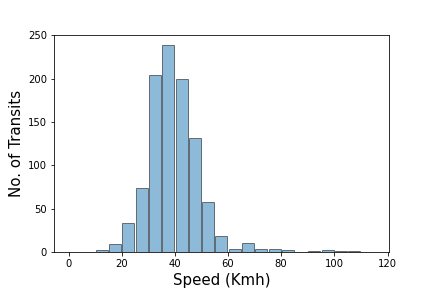
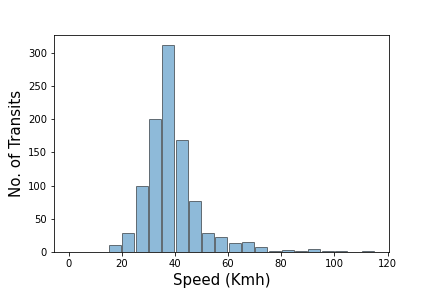
nahon update

diff --git a/Resources/Demos/Nahon/nahonRecentStats.html b/Resources/Demos/Nahon/nahonRecentStats.html
@@ -163,4 +163,4 @@
                     </tr>
 
                     <tr>
-                              <tr>                        <td>Bridge:              </td>                        <td>Nakhon Nayok, Thailand</td>                    </tr>                    <tr>                        <td>Test Period:         </td>                        <td>2020-11-29 to 2020-12-01</td>                    <tr>                        <td>Test Times:         </td>                        <td>09:02:20 to 15:23:22</td>                    </tr>                                     <tr>                        <td>Number of violations:</td>                        <td>71</td>                    </tr>                    <tr>                        <td>Number of transits:</td>                        <td>998</td>                    </tr>                 </table>             </div>            <div class='col-sm-4'></div>            <!-- Spacer-->        <div class='container-fluid'>            <div class='row'>                <div class='col-sm-2' style='background-color:white;'></div>                <div class='col-sm-8'>                      <img class='img-fluid' src='vCalendar.png' class='mx-auto d-block' />                    <br />                </div>                <div class='col-sm-2' style='background-color:white;'></div>            </div>        </div>             </div>            <div class='col-sm-2' style='background-color:white;'></div>        </div>    </div>        <!-- Spacer-->        <div class='container-fluid'>            <div class='row'>                <div class='col-sm-12'>                    .                    <br />                </div>            </div>        </div>         <!--Start a diagram +  table  (imageName)-->        <div class='container-fluid'>            <div class='row'>                <div class='col-sm-2' style='background-color:white;'></div>                 <div class='col-sm-4'>                    <img class='img-fluid' src='vWeightHisto.png'  height='300' class='mx-auto d-block' />                </div>                <div class='col-sm-4'>                    <table id='components2'>                        <tr>                            <th>Gross Vehicle Weight</th>                        </tr>                        <tr>                        <tr>                            <td>Mean weight (T):</td>                            <td>16.62 </td>                        </tr>                        <tr>                            <td>Mode weight (T):</td>                            <td>1.98</td>                        </tr>                        <tr>                            <td>Weight limit (T): </td>                            <td>50.0</td>                        </tr>                        <tr>                            <td>Number of violations:</td>                            <td>37</td>                        </tr>                        <tr>                            <td>Max violation (T):</td>                            <td>220.4</td>                        </tr>                    </table>                </div>                <div class='col-sm-2' style='background-color:white;'></div>            </div> <!-- End of Row-->        </div>      </div>      <!--Start a diagram +  table  (imageName)-->      <div class='container-fluid'>          <div class='row'>              <div class='col-sm-2' style='background-color:white;'></div>              <div class='col-sm-4'>                      <img class='img-fluid' src='vVelocity.png' class='mx-auto d-block' />              </div>              <div class='col-sm-4'>                  <table id='components2'>                          <tr>                              <th>Velocity</th>                                </tr>                          <tr>                          <tr>                              <td>Mean Speed (Km/h):</td>                              <td>39.74 </td>                          </tr>                          <tr>                              <td>Mode speed (Km/h):</td>                              <td>39.0</td>                          </tr>                          <tr>                              <td>Speed limit (Km/h):</td>                              <td>60.0</td>                          </tr>                          <tr>                              <td>Number of violations:</td>                              <td>29</td>                          </tr>                          <tr>                              <td>Max violation (Km/h):</td>                              <td>109.0</td>                          </tr>                            </table>                  </div>              </div>              <div class='col-sm-2' style='background-color:white;'>          </div>      </div>      <!--Start a diagram +  table  (imageName)-->      <div class='container-fluid'>          <div class='row'>              <div class='col-sm-2' style='background-color:white;'></div>              <div class='col-sm-4'>                  <img class='img-fluid' src='vLength.png'  height='300' class='mx-auto d-block'/>              </div>              <div class='col-sm-4'>                  <table id='components2'>                      <!--table heading -->                          <tr>                              <th>Vehicle Length (m):</th>                                </tr>                          <tr>                          <!--table entry -->                          <tr>                              <td>Mean Length (m):</td>                              <td>8.58</td>                          </tr>                          <!--table entry -->                          <tr>                              <td>Mode length (m):</td>                              <td>3.11</td>                          </tr>                             <!--table entry -->                         <tr>                             <td>Length limit (m): </td>                             <td>20.0</td>                         </tr>                            <!--table entry -->                                                 <tr>                             <td>Number of violations:</td>                             <td>5</td>                         </tr>                            <!--table entry -->                         <tr>                             <td>Max violation:</td>                             <td>72.75</td>                         </tr>                         <!--Close table -->                     </table>                 </div>             </div>             <div class='col-sm-2' style='background-color:white;'>         </div>     </div>      <!--Start a diagram +  table  (imageName)-->      <div class='container-fluid'>          <div class='row'>              <div class='col-sm-2' style='background-color:white;'></div>              <div class='col-sm-4'>                  <img class='img-fluid' src='vESAL.png'  height='300' class='mx-auto d-block'/>              </div>              <div class='col-sm-4'>                  <table id='components2'>                      <!--table heading -->                          <tr>                              <th>ESAL</th>                                </tr>                          <tr>                          <!--table entry -->                          <tr>                              <td>Mean ESAL:</td>                              <td>86.73</td>                          </tr>                          <!--table entry -->                          <tr>                              <td>Mode ESAL (m):</td>                              <td>2</td>                          </tr>                             <!--table entry -->                         <tr>                             <td>ESAL limit (m): </td>                             <td>0.7</td>                         </tr>                            <!--table entry -->                                                 <tr>                             <td>Number of violations:</td>                             <td>959</td>                         </tr>                            <!--table entry -->                         <tr>                             <td>Max violation:</td>                             <td>2000</td>                         </tr>                         <!--Close table -->                     </table>                 </div>             </div>             <div class='col-sm-2' style='background-color:white;'>         </div>     </div> <!--Draw a axle count graph-->     <div class='container-fluid'>         <div class='row'>             <div class='col-sm-2' style='background-color:white;'></div>             <div class='col-sm-8' style='background-color:white;'>                 <img class='img-fluid' src='vAxleCount.png' class='mx-auto d-block' />             </div>             <div class='col-sm-2' style='background-color:white;'>         </div>     </div>     <br>       <br>   </div>     <!--Draw a double graph-->     <div class='container-fluid'>         <div class='row'>                 <div class='col-sm-2' style='background-color:white;'></div>                 <div class='col-sm-8'>                     <img class='img-fluid' src='vWeekHisto.png' class='mx-auto d-block' />                     <img class='img-fluid' src='vDiurnalHisto.png' class='mx-auto d-block' />                 </div>                 <div class='col-sm-2' style='background-color:white;'></div>         </div>     </div> <div class='row'>     <div class='col-sm-2' style='background-color:white;'></div>         <div class='col-sm-8'>                 <table id='components'>                     <tr>                         <th>Summary</th>                     </tr>                     <tr>                     <tr>                         <td>Location</td>                         <td>Nakhon Nayok, Thailand </td>                     </tr>                    <tr>                         <td>Measurement period:</td>                         <td>2020-11-29 to 2020-12-01</td>                    <tr>                         <td>Measurement times:</td>                         <td>09:02:20 to 15:23:22</td>                     </tr>                     <tr>                         <td>Number of events: </td>                         <td>998</td>                     </tr>                     <tr>                         <td>Number of violations:</td>                         <td>71</td>                     </tr>                 </table>                 <br>             <table id='components'>               <tr>                   <th>By axle count</th>               </tr>               <tr>               <tr>                   <td>Axles </td>                   <td>Transits </td>                   <td>Mean Speed (Km/h)</td>                   <td>Mean Weight (T) </td>                   <td>ESAL </td>               </tr>               <tr>                 <td>2 </td>                 <td>332 </td>                 <td>39.07</td>                 <td>7.56 </td>                 <td>23.27 </td>             </tr>               <tr>                 <td>3 </td>                 <td>314 </td>                 <td>41.39</td>                 <td>13.23 </td>                 <td>50.65 </td>             </tr>               <tr>                 <td>4 </td>                 <td>77 </td>                 <td>38.68</td>                 <td>16.79 </td>                 <td>156.57 </td>             </tr>               <tr>                 <td>5 </td>                 <td>79 </td>                 <td>37.91</td>                 <td>21.48 </td>                 <td>115.47 </td>             </tr>               <tr>                 <td>6 </td>                 <td>109 </td>                 <td>39.08</td>                 <td>27.89 </td>                 <td>169.17 </td>             </tr>           </table>           <br>   </html>      <table id='components'>         <tr>             <th>Exceptions</th>         </tr>         <tr>         <tr>             <td>Class </td>             <td>Speed (km/h)</td>             <td>Weight (T) </td>             <td>ESAL </td>         </tr>         <tr>           <td>Limit </td>           <td>60.0</td>           <td>50.0 </td>           <td>0.7 </td>       </tr>       <tr>           <td>Violations </td>           <td>29 </td>           <td>37</td>           <td>959</td>       </tr>            </table>     <div class='col-sm-2' style='background-color:lavender;'></div>     <br> </html>
+                              <tr>                        <td>Bridge:              </td>                        <td>Nakhon Nayok, Thailand</td>                    </tr>                    <tr>                        <td>Test Period:         </td>                        <td>2021-01-11 to 2021-01-13</td>                    <tr>                        <td>Test Times:         </td>                        <td>12:39:26 to 02:27:45</td>                    </tr>                                     <tr>                        <td>Number of violations:</td>                        <td>136</td>                    </tr>                    <tr>                        <td>Number of transits:</td>                        <td>998</td>                    </tr>                 </table>             </div>            <div class='col-sm-4'></div>            <!-- Spacer-->        <div class='container-fluid'>            <div class='row'>                <div class='col-sm-2' style='background-color:white;'></div>                <div class='col-sm-8'>                      <img class='img-fluid' src='vCalendar.png' class='mx-auto d-block' />                    <br />                </div>                <div class='col-sm-2' style='background-color:white;'></div>            </div>        </div>             </div>            <div class='col-sm-2' style='background-color:white;'></div>        </div>    </div>        <!-- Spacer-->        <div class='container-fluid'>            <div class='row'>                <div class='col-sm-12'>                    .                    <br />                </div>            </div>        </div>         <!--Start a diagram +  table  (imageName)-->        <div class='container-fluid'>            <div class='row'>                <div class='col-sm-2' style='background-color:white;'></div>                 <div class='col-sm-4'>                    <img class='img-fluid' src='vWeightHisto.png'  height='300' class='mx-auto d-block' />                </div>                <div class='col-sm-4'>                    <table id='components2'>                        <tr>                            <th>Gross Vehicle Weight</th>                        </tr>                        <tr>                        <tr>                            <td>Mean weight (T):</td>                            <td>32.25 </td>                        </tr>                        <tr>                            <td>Mode weight (T):</td>                            <td>0.32</td>                        </tr>                        <tr>                            <td>Weight limit (T): </td>                            <td>50.0</td>                        </tr>                        <tr>                            <td>Number of violations:</td>                            <td>81</td>                        </tr>                        <tr>                            <td>Max violation (T):</td>                            <td>150.36</td>                        </tr>                    </table>                </div>                <div class='col-sm-2' style='background-color:white;'></div>            </div> <!-- End of Row-->        </div>      </div>      <!--Start a diagram +  table  (imageName)-->      <div class='container-fluid'>          <div class='row'>              <div class='col-sm-2' style='background-color:white;'></div>              <div class='col-sm-4'>                      <img class='img-fluid' src='vVelocity.png' class='mx-auto d-block' />              </div>              <div class='col-sm-4'>                  <table id='components2'>                          <tr>                              <th>Velocity</th>                                </tr>                          <tr>                          <tr>                              <td>Mean Speed (Km/h):</td>                              <td>39.26 </td>                          </tr>                          <tr>                              <td>Mode speed (Km/h):</td>                              <td>39.0</td>                          </tr>                          <tr>                              <td>Speed limit (Km/h):</td>                              <td>60.0</td>                          </tr>                          <tr>                              <td>Number of violations:</td>                              <td>51</td>                          </tr>                          <tr>                              <td>Max violation (Km/h):</td>                              <td>111.0</td>                          </tr>                            </table>                  </div>              </div>              <div class='col-sm-2' style='background-color:white;'>          </div>      </div>      <!--Start a diagram +  table  (imageName)-->      <div class='container-fluid'>          <div class='row'>              <div class='col-sm-2' style='background-color:white;'></div>              <div class='col-sm-4'>                  <img class='img-fluid' src='vLength.png'  height='300' class='mx-auto d-block'/>              </div>              <div class='col-sm-4'>                  <table id='components2'>                      <!--table heading -->                          <tr>                              <th>Vehicle Length (m):</th>                                </tr>                          <tr>                          <!--table entry -->                          <tr>                              <td>Mean Length (m):</td>                              <td>15.14</td>                          </tr>                          <!--table entry -->                          <tr>                              <td>Mode length (m):</td>                              <td>16.65</td>                          </tr>                             <!--table entry -->                         <tr>                             <td>Length limit (m): </td>                             <td>20.0</td>                         </tr>                            <!--table entry -->                                                 <tr>                             <td>Number of violations:</td>                             <td>4</td>                         </tr>                            <!--table entry -->                         <tr>                             <td>Max violation:</td>                             <td>64.86</td>                         </tr>                         <!--Close table -->                     </table>                 </div>             </div>             <div class='col-sm-2' style='background-color:white;'>         </div>     </div>      <!--Start a diagram +  table  (imageName)-->      <div class='container-fluid'>          <div class='row'>              <div class='col-sm-2' style='background-color:white;'></div>              <div class='col-sm-4'>                  <img class='img-fluid' src='vESAL.png'  height='300' class='mx-auto d-block'/>              </div>              <div class='col-sm-4'>                  <table id='components2'>                      <!--table heading -->                          <tr>                              <th>ESAL</th>                                </tr>                          <tr>                          <!--table entry -->                          <tr>                              <td>Mean ESAL:</td>                              <td>345.5</td>                          </tr>                          <!--table entry -->                          <tr>                              <td>Mode ESAL (m):</td>                              <td>2000</td>                          </tr>                             <!--table entry -->                         <tr>                             <td>ESAL limit (m): </td>                             <td>0.7</td>                         </tr>                            <!--table entry -->                                                 <tr>                             <td>Number of violations:</td>                             <td>989</td>                         </tr>                            <!--table entry -->                         <tr>                             <td>Max violation:</td>                             <td>2000</td>                         </tr>                         <!--Close table -->                     </table>                 </div>             </div>             <div class='col-sm-2' style='background-color:white;'>         </div>     </div> <!--Draw a axle count graph-->     <div class='container-fluid'>         <div class='row'>             <div class='col-sm-2' style='background-color:white;'></div>             <div class='col-sm-8' style='background-color:white;'>                 <img class='img-fluid' src='vAxleCount.png' class='mx-auto d-block' />             </div>             <div class='col-sm-2' style='background-color:white;'>         </div>     </div>     <br>       <br>   </div>     <!--Draw a double graph-->     <div class='container-fluid'>         <div class='row'>                 <div class='col-sm-2' style='background-color:white;'></div>                 <div class='col-sm-8'>                     <img class='img-fluid' src='vWeekHisto.png' class='mx-auto d-block' />                     <img class='img-fluid' src='vDiurnalHisto.png' class='mx-auto d-block' />                 </div>                 <div class='col-sm-2' style='background-color:white;'></div>         </div>     </div> <div class='row'>     <div class='col-sm-2' style='background-color:white;'></div>         <div class='col-sm-8'>                 <table id='components'>                     <tr>                         <th>Summary</th>                     </tr>                     <tr>                     <tr>                         <td>Location</td>                         <td>Nakhon Nayok, Thailand </td>                     </tr>                    <tr>                         <td>Measurement period:</td>                         <td>2021-01-11 to 2021-01-13</td>                    <tr>                         <td>Measurement times:</td>                         <td>12:39:26 to 02:27:45</td>                     </tr>                     <tr>                         <td>Number of events: </td>                         <td>998</td>                     </tr>                     <tr>                         <td>Number of violations:</td>                         <td>136</td>                     </tr>                 </table>                 <br>             <table id='components'>               <tr>                   <th>By axle count</th>               </tr>               <tr>               <tr>                   <td>Axles </td>                   <td>Transits </td>                   <td>Mean Speed (Km/h)</td>                   <td>Mean Weight (T) </td>                   <td>ESAL </td>               </tr>               <tr>                 <td>2 </td>                 <td>42 </td>                 <td>48.37</td>                 <td>9.4 </td>                 <td>109.81 </td>             </tr>               <tr>                 <td>3 </td>                 <td>157 </td>                 <td>41.96</td>                 <td>16.83 </td>                 <td>132.3 </td>             </tr>               <tr>                 <td>4 </td>                 <td>80 </td>                 <td>40.92</td>                 <td>30.55 </td>                 <td>693.29 </td>             </tr>               <tr>                 <td>5 </td>                 <td>240 </td>                 <td>38.14</td>                 <td>32.14 </td>                 <td>377.28 </td>             </tr>               <tr>                 <td>6 </td>                 <td>448 </td>                 <td>37.82</td>                 <td>38.94 </td>                 <td>345.08 </td>             </tr>           </table>           <br>   </html>      <table id='components'>         <tr>             <th>Exceptions</th>         </tr>         <tr>         <tr>             <td>Class </td>             <td>Speed (km/h)</td>             <td>Weight (T) </td>             <td>ESAL </td>         </tr>         <tr>           <td>Limit </td>           <td>60.0</td>           <td>50.0 </td>           <td>0.7 </td>       </tr>       <tr>           <td>Violations </td>           <td>51 </td>           <td>81</td>           <td>989</td>       </tr>            </table>     <div class='col-sm-2' style='background-color:lavender;'></div>     <br> </html>
